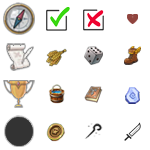
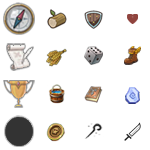
fix: map bug when update, selection auto, no actions on neutral floor

Changed region(s): [[0.2933, 0.0267, 0.48, 0.2133], [0.5333, 0.0533, 0.6933, 0.2133]]

diff --git a/api/patterns/chara.patterns.ts b/api/patterns/chara.patterns.ts
@@ -288,7 +288,7 @@ export class CharaPattern extends Pattern{
     attack( target : Pattern, callback){
 
 
-        if ( this.obj.actions > 0 && !target['clan'] || target['clan'] !== this.obj['clan'] ){
+        if ( this.obj.actions > 0 && (!target['clan'] || target['clan'] !== this.obj['clan']) ){
 
             this.incrementValues({'actions': -1}, charaUpdated => {
 
@@ -420,21 +420,28 @@ export class CharaPattern extends Pattern{
     }
     heal( target : Pattern, callback ){
 
-        if ( this.obj.actions > 0 && !target.obj['clan'] || target.obj['clan'] === this.obj['clan'] ){
+        if ( 
+            this.obj.actions > 0 && 
+            this.obj.water >= 5 && 
+            this.obj.food >= 5 && 
+            (!target.obj['clan'] || target.obj['clan'] === this.obj['clan']) &&
+            target.obj['life'] < target.obj['lifeMax']
+            ){
 
-            let adder = Math.min(0, Math.max(0,target.obj['lifeMax'] - target.obj['life']) );
 
             const D100 = 1 + Math.floor(Math.random()*99);
 
-            const water = Math.ceil(Math.min(this.obj['water'], 10 * this.obj['dowser']/100)) ;
-            const food = Math.ceil(Math.min(this.obj['food'], 10 * this.obj['dowser']/100)) ;
-            adder += Math.ceil((water + food)*D100/100) ;
-            adder = Math.min( target.obj['lifeMax'] - target.obj['life'], adder );
+            let adder = 10 + Math.ceil(D100*0.2);
+
+
+            // const water = Math.ceil(Math.min(this.obj['water'], 10 * this.obj['dowser']/100)) ;
+            // const food = Math.ceil(Math.min(this.obj['food'], 10 * this.obj['dowser']/100)) ;
+    
 
             this.incrementValues({
                 'actions': -1,
-                'water' : -water,
-                'food' : -food
+                'water' : -5,
+                'food' : -5
             }, charaUpdated => {
                 target.incrementValues({ 'life' : adder }, targetU => {
 
@@ -762,7 +769,7 @@ export class CharaPattern extends Pattern{
         }
     }
     addMercenari( target : CapitalPattern, callback ){
-        if ( this.obj.gold > 20 && target.obj.mercenaries < 50 ){
+        if ( this.obj.gold >= 20 && target.obj.mercenaries < 20 ){
 
             this.incrementValues({ gold : -20}, charaRes => {
 
@@ -796,7 +803,7 @@ export class CharaPattern extends Pattern{
         if ( this.obj.actions > 0 && target.obj.mercenaries > 0 ){
             incBuildingValuesData(target.obj._id, { mercenaries : -1}).then( targetRes => {
 
-                if ( this.obj.life <= target.obj.mercenaries ){
+                if ( this.obj.life <= target.obj.mercenaries*3 ){
                     this.die( dieRes => {
                      
                         updateSocketsValues({
@@ -815,7 +822,7 @@ export class CharaPattern extends Pattern{
 
                 }else{
 
-                    this.incrementValues({ 'actions' : -1, 'life' : - target.obj.mercenaries }, charaRes => {
+                    this.incrementValues({ 'actions' : -1, 'life' : - target.obj.mercenaries*3 }, charaRes => {
 
                         updateSocketsValues({
                             x : target.obj.position[0],
@@ -900,6 +907,7 @@ export class CharaPattern extends Pattern{
 
             
             updateCharaValuesData(this.obj._id, {
+                life : 100,
                 gold : this.obj.gold/2,
             }).then( updateLifeRes => {
     

diff --git a/src/app/game/character/character.component.html b/src/app/game/character/character.component.html
@@ -1,7 +1,7 @@
 <div class="book">
     <div class="page">
         <div class="article">
-            <h2 class="title">Charactéristiques</h2>
+            <h2 class="title">Caractéristiques</h2>
      
             <div class="content" *ngIf="(user.charaSubject | async) ; let chara">
                 
@@ -23,6 +23,7 @@
                         <p>Race: {{chara.race}}</p>
                         <div class="clan" [ngClass]="chara.clan"></div>
                         <p *ngIf="chara.capital" [ngClass]="chara.clan" style="background-color:transparent">capitale: {{-chara.capital.position[1]}}x {{-chara.capital.position[0]}}y</p>
+                        <p *ngIf="chara.capital" [ngClass]="chara.clan" style="background-color:transparent">défenseur: {{chara.capital.mercenaries}}</p>
                         <p [ngClass]="chara.clan" style="background-color:transparent">{{chara.clan}}</p>
                     </div>
     
@@ -44,8 +45,9 @@
             </div>
         </div>
         <div class="article">
-            <h2 class="title">Trophé et pictos</h2>
+            <h2 class="title">Trophées & pictos</h2>
             <div class="content">
+                Prochainement...
             </div>
         </div>
     </div>
@@ -54,6 +56,7 @@
         <div class="article">
             <h2 class="title">Background</h2>
             <div class="content">
+                Prochainement...
             </div>
         </div>
     </div>

diff --git a/src/app/shared/services/user.service.ts b/src/app/shared/services/user.service.ts
@@ -97,8 +97,8 @@ export class UserService {
 
     })
 
-
     if ( localStorage.getItem('token') ){
+
 
       this.http.get(`${environment.urlApi}/user/read`).subscribe( usr => {
 
@@ -292,7 +292,7 @@ export class UserService {
     
     if ( !target && floor instanceof WorldModel && floor.x === this.chara.x && floor.y === this.chara.y ){
 
-      if ( floor.type === "floor" ){
+      if ( floor.type === "floor" && floor.getName() !== "neutral" ){
         return [
           {
             name : `puiser de l'eau`,
@@ -322,8 +322,8 @@ export class UserService {
         if ( floor['datas']['clan'] === this.chara.clan ){
           return [
             {
-              name : `${floor['datas']['mercenaries']}/50 ajouter mercenaire `,
-              icon : "icon-pray" ,
+              name : `${floor['datas']['mercenaries']}/20 ajouter mercenaire `,
+              icon : "icon-shield" ,
               action : "addMercenari"
             }
           ]
@@ -331,7 +331,7 @@ export class UserService {
           if ( floor['datas']['mercenaries'] > 0 ){
             return [
               {
-                name : `${floor['datas']['mercenaries']}/50 attaquer mercenaire`,
+                name : `${floor['datas']['mercenaries']}/20 attaquer mercenaire`,
                 icon : "icon-attack",
                 action : "attackMercenari"
               }

diff --git a/src/app/game/carte/viewver.service.ts b/src/app/game/carte/viewver.service.ts
@@ -34,8 +34,8 @@ export class ViewverService {
     /**
      * for each chara update, check viewver
      */
-    this.user.charaSubject.subscribe( () => {
-      this.setViewver();
+    this.user.charaSubject.subscribe( chara => {
+      this.setViewver(chara);
     });
 
   }
@@ -44,12 +44,12 @@ export class ViewverService {
    * if viewver is null but chara exist, create the view
    * on map html element.
    */
-  setViewver(){
+  setViewver(chara){
 
-      if ( !this.viewver && this.user.chara ){
+      if ( !this.viewver && chara ){
         const map = document.getElementById('map') as HTMLDivElement ;
         if ( map ){
-          this.createViewver(map,this.user.chara);
+          this.createViewver(map,chara);
         }
       }
   }
@@ -66,13 +66,13 @@ export class ViewverService {
 
     setTimeout(()=>{
       const map = document.getElementById('map') as HTMLDivElement ;
-      if ( !this.viewver ){
-          this.setViewver();
+      if ( !this.viewver && this.user.chara ){
+          this.setViewver(this.user.chara);
           if ( this.viewver ){
             this.viewver.renderOn(map);
             this.initEmitter.emit(true);
           }
-      }else{
+      }else if ( this.viewver ){
           this.viewver.renderOn(map);
           this.initEmitter.emit(true);
       }

diff --git a/src/app/game/carte/carte.component.ts b/src/app/game/carte/carte.component.ts
@@ -1,5 +1,6 @@
 import { AfterViewInit, Component, OnInit, ViewChild } from '@angular/core';
 import { ReplaySubject } from 'rxjs';
+import { first } from 'rxjs/operators';
 import { WorldChara } from 'src/app/shared/classes/world/chara.world';
 import { WorldFloor } from 'src/app/shared/classes/world/floor.world';
 import { WorldModel } from 'src/app/shared/classes/world/model.world';
@@ -33,10 +34,17 @@ export class CarteComponent implements OnInit, AfterViewInit {
   }
   ngAfterViewInit(){
 
-    console.log('init map on ngAfterViewInit');
+    
+    this.user.charaSubject.pipe( first()).subscribe( chara => {
 
       this.viewS.buildMap();
       this.drawMapCanvas();
+      setTimeout(()=> {
+        
+        this.viewS.viewver.updateSelection();
+      },1000);
+
+    })
 
   }
 

diff --git a/src/scss/class.scss b/src/scss/class.scss
@@ -109,6 +109,9 @@
         background-position: calc( var(--icon-size) * -3) calc( var(--icon-size) * -1) ;
 
     }
+    &-shield{
+        background-position: calc( var(--icon-size) * -2) calc( var(--icon-size) * 0) ;
+    }
     &-water{
         background-position: calc( var(--icon-size) * -1) calc( var(--icon-size) * -2) ;
 
@@ -117,7 +120,7 @@
         background-position: calc( var(--icon-size) * -1) calc( var(--icon-size) * -1) ;
     }
     &-wood{
-        background-position: calc( var(--icon-size) * -1) calc( var(--icon-size) * -3) ;
+        background-position: calc( var(--icon-size) * -1) calc( var(--icon-size) * 0) ;
     }
     &-gold{
         background-position: calc( var(--icon-size) * -1) calc( var(--icon-size) * -3) ;

diff --git a/src/app/shared/classes/world/world.viewver.ts b/src/app/shared/classes/world/world.viewver.ts
@@ -129,6 +129,8 @@ export class WorldViewer {
         this.camera.position.x += this.x ;
         this.camera.position.y += this.y ;
 
+        this.selectedP.x = this.x ;
+        this.selectedP.y = this.y ;
 
         this.renderer.setAnimationLoop( anim => {
             this.animation.next();
@@ -197,7 +199,8 @@ export class WorldViewer {
 
             }
 
-        })
+        });
+        this.updateSelection();
     }
 
     updateMovers(){
@@ -215,6 +218,7 @@ export class WorldViewer {
         this.moverMY.position.y = this.y - this.rayon - 2 ;
     }
     updateSelection(){
+        console.log('update selection')
         this.selectByPosition(this.selectedP.x, this.selectedP.y);
     }
 

diff --git a/src/app/connexion/connexion.component.html b/src/app/connexion/connexion.component.html
@@ -36,7 +36,7 @@
                         <mat-error>champ requis</mat-error>
                     </mat-form-field>
                     <mat-form-field>
-                        <input matInput formControlName="password" placeholder="mot de passe">
+                        <input type="password" matInput formControlName="password" placeholder="mot de passe">
                         <mat-error>champ requis</mat-error>
                     </mat-form-field>
                     <button mat-raised-button  color='primary' [disabled]="!loginFG.valid" (click)="login()">se connecter</button>

diff --git a/src/app/game/pantheon/pantheon.component.html b/src/app/game/pantheon/pantheon.component.html
@@ -60,7 +60,7 @@
         <div class="article">
             <h2 class="title">Classement par Factions</h2>
             <div class="content">
-                Lorem, ipsum dolor sit amet consectetur adipisicing elit. Magni ipsum commodi culpa, eos possimus nobis dolor amet, odit cupiditate blanditiis quia placeat tenetur! Cupiditate asperiores unde facilis, accusamus vitae doloremque eaque ipsum, similique porro incidunt corrupti commodi, fuga labore consequuntur.
+                Prochainement...
             </div>
         </div>
     </div>

diff --git a/src/app/game/carte/info-case/info-case.component.ts b/src/app/game/carte/info-case/info-case.component.ts
@@ -66,9 +66,8 @@ export class InfoCaseComponent implements OnInit {
 
       this.selectSubscription = this.viewer.viewver.selectEmitter.subscribe(selects => {
 
-        console.log('new selections');
+
         let floors = selects.filter( row => row instanceof WorldFloor || row instanceof WorldBuilding );
-        
 
         this.targetFloor = floors[floors.length-1] ;
         const floorInteractions = this.user.getActionsOn(this.targetFloor);

diff --git a/api/patterns/building.pattern.ts b/api/patterns/building.pattern.ts
@@ -7,8 +7,8 @@ export class BuildingPattern extends Pattern {
 
     static init(){
 
-        const startMercenary = 30 ;
-        const dist = 40 ;
+        const startMercenary = 10 ;
+        const dist = 20 ;
 
         const capitales : CapitalI[] = [
             {

diff --git a/src/app/game/carte/historic/historic.component.html b/src/app/game/carte/historic/historic.component.html
@@ -1,5 +1,5 @@
 <div class="article last-action">
-    <div class="title">historique des actions</div>
+    <div class="title">Historique des actions</div>
     <div class="content" id="historicContainer">
 
         <span class="icon">bonjour</span>
